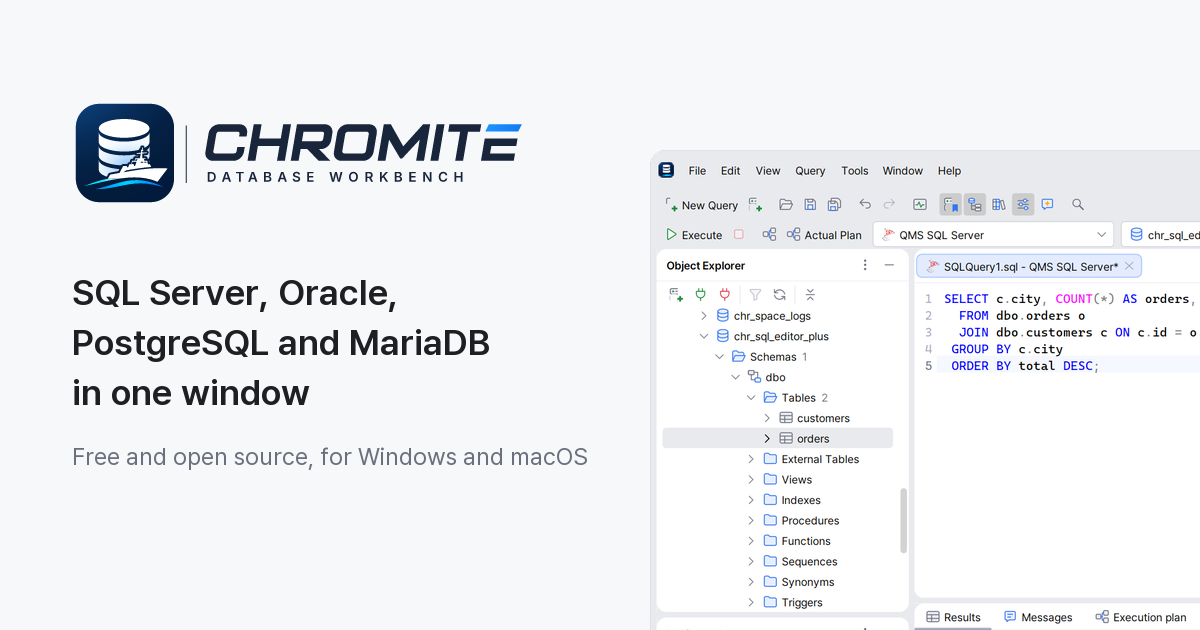
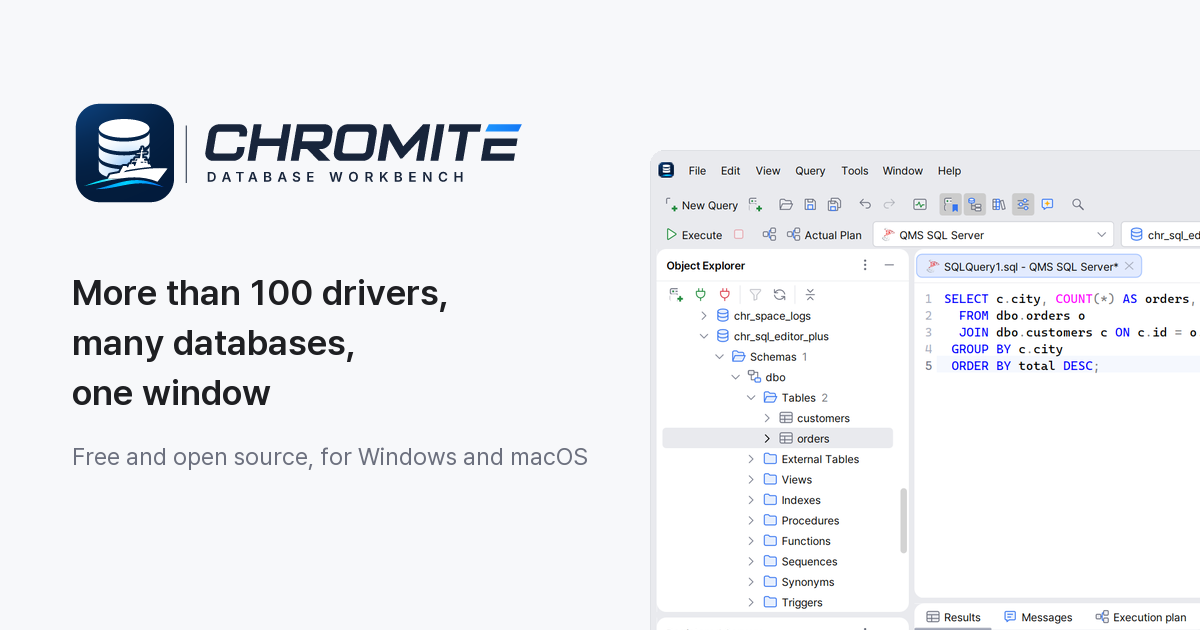
Stop implying the site's database list is a limit
The home page, meta descriptions, share images and the admin and
Chromite Agent scenes named four or five databases, which read as the
only databases Chromite works with. They are only the pre-installed
drivers. The site now says "more than 100 drivers" (144 labelled
driver definitions in 44 plugin.xml files), presents the pre-installed
drivers as a convenience, retitles the admin scene around the DBA
tools and states once which databases those tools cover, and splits
the Chromite Agent tools into generic (any connection) and diagnostic
(SQL Server, PostgreSQL, MariaDB/MySQL, Oracle) ones.

The share images are regenerated with gen_site_images.py; the icons
it also writes came out byte-identical.

Changed region(s): [[0.0617, 0.5127, 0.4317, 0.573], [0.0617, 0.6032, 0.2775, 0.6635], [0.0617, 0.4222, 0.37, 0.4825]]

diff --git a/site/ko/index.html b/site/ko/index.html
@@ -5,7 +5,7 @@
 <meta name="viewport" content="width=device-width, initial-scale=1">
 <meta name="color-scheme" content="light dark">
 <title>Chromite 다운로드</title>
-<meta name="description" content="Chromite - 데이터베이스 워크벤치. PostgreSQL, SQL Server, MariaDB, MySQL, Oracle을 한 창에서 다루는 데스크톱 앱. Windows와 macOS용 설치 파일을 받습니다.">
+<meta name="description" content="Chromite - 데이터베이스 워크벤치. 100가지가 넘는 드라이버로 여러 데이터베이스를 한 창에서 다루는 데스크톱 앱. Windows와 macOS용 설치 파일을 받습니다.">
 <link rel="icon" href="/favicon.ico" sizes="16x16 32x32 48x48">
 <link rel="icon" href="/assets/chromite-icon.svg" type="image/svg+xml">
 <link rel="icon" href="/assets/icons/icon-32.png" type="image/png" sizes="32x32">
@@ -15,20 +15,20 @@
 <meta property="og:type" content="website">
 <meta property="og:site_name" content="Chromite">
 <meta property="og:title" content="Chromite - 데이터베이스 워크벤치">
-<meta property="og:description" content="Chromite - 데이터베이스 워크벤치. PostgreSQL, SQL Server, MariaDB, MySQL, Oracle을 한 창에서 다루는 데스크톱 앱. Windows와 macOS용 설치 파일을 받습니다.">
+<meta property="og:description" content="Chromite - 데이터베이스 워크벤치. 100가지가 넘는 드라이버로 여러 데이터베이스를 한 창에서 다루는 데스크톱 앱. Windows와 macOS용 설치 파일을 받습니다.">
 <meta property="og:url" content="https://chromite.seizia.com/ko/">
 <meta property="og:image" content="https://chromite.seizia.com/assets/og/og-ko.png">
 <meta property="og:image:type" content="image/png">
 <meta property="og:image:width" content="1200">
 <meta property="og:image:height" content="630">
-<meta property="og:image:alt" content="Chromite 로고와 &#x27;SQL Server, Oracle, PostgreSQL, MariaDB를 한 창에서 다룹니다&#x27; 문구, 그 옆의 Chromite 창 화면">
+<meta property="og:image:alt" content="Chromite 로고와 &#x27;100가지가 넘는 드라이버로 여러 데이터베이스를 한 창에서 다룹니다&#x27; 문구, 그 옆의 Chromite 창 화면">
 <meta property="og:locale" content="ko_KR">
 <meta property="og:locale:alternate" content="en_US">
 <meta name="twitter:card" content="summary_large_image">
 <meta name="twitter:title" content="Chromite - 데이터베이스 워크벤치">
-<meta name="twitter:description" content="Chromite - 데이터베이스 워크벤치. PostgreSQL, SQL Server, MariaDB, MySQL, Oracle을 한 창에서 다루는 데스크톱 앱. Windows와 macOS용 설치 파일을 받습니다.">
+<meta name="twitter:description" content="Chromite - 데이터베이스 워크벤치. 100가지가 넘는 드라이버로 여러 데이터베이스를 한 창에서 다루는 데스크톱 앱. Windows와 macOS용 설치 파일을 받습니다.">
 <meta name="twitter:image" content="https://chromite.seizia.com/assets/og/og-ko.png">
-<meta name="twitter:image:alt" content="Chromite 로고와 &#x27;SQL Server, Oracle, PostgreSQL, MariaDB를 한 창에서 다룹니다&#x27; 문구, 그 옆의 Chromite 창 화면">
+<meta name="twitter:image:alt" content="Chromite 로고와 &#x27;100가지가 넘는 드라이버로 여러 데이터베이스를 한 창에서 다룹니다&#x27; 문구, 그 옆의 Chromite 창 화면">
 <link rel="stylesheet" href="/assets/site.css">
 <link rel="alternate" hreflang="en" href="/en/">
 <script src="/downloads/releases.js" defer></script>
@@ -61,7 +61,7 @@
       <div class="hero-shot">
         <img src="/assets/shots/ko-dark.webp" width="1899" height="1188" fetchpriority="high" decoding="async" data-t="y 62% -4% 0 .62; r 34 0 0 .62; s .84 1 0 .62" alt="Chromite 창. 왼쪽에 개체 탐색기와 등록된 서버, 가운데에 SQL 편집기와 결과 표, 오른쪽에 속성 창이 있다.">
       </div>
-      <p class="hero-statement" data-t="o 0 1 .6 .78; y 36px 0px .6 .78">PostgreSQL, SQL Server, MariaDB, MySQL, Oracle을 한 창에서 다룹니다.</p>
+      <p class="hero-statement" data-t="o 0 1 .6 .78; y 36px 0px .6 .78">100가지가 넘는 드라이버로 여러 데이터베이스를 한 창에서 다룹니다. 자주 쓰는 드라이버는 미리 들어 있습니다.</p>
     </div>
   </section>
 
@@ -105,7 +105,7 @@
     <div class="pin">
       <div class="scene-head">
         <h2 id="chromite-agent-title">Chromite Agent</h2>
-        <p class="scene-lead">물어보면 연결한 데이터베이스에서 도구를 골라 근거를 모으고 답합니다. 도구는 SQL Server, PostgreSQL, MariaDB, Oracle 기준이며 DB마다 쓸 수 있는 도구가 다릅니다.</p>
+        <p class="scene-lead">물어보면 도구로 근거를 모아 답합니다. 스키마·데이터·쿼리 도구는 어느 데이터베이스에서나, 진단 도구(실행 계획, 잠금, 상태 점검)는 SQL Server, PostgreSQL, MariaDB·MySQL, Oracle에서 씁니다.</p>
       </div>
       <figure class="scene-media" data-t="y 8vh 0vh 0 .3">
         <div class="frame"><img src="/assets/shots/tour/agent-ko-dark.webp" srcset="/assets/shots/tour/agent-ko-dark.webp 1.25x" width="355" height="749" loading="lazy" decoding="async" alt="Chromite Agent 창. 질문 '주문 42번을 고치는 UPDATE가 끝나지 않아요. 왜 기다리나요?' 아래에 읽기 도구 '차단 체인 가져오기'와 '열린 트랜잭션 목록'이 완료로 표시되고, 원인과 할 일을 적은 답이 있다."></div>
@@ -133,7 +133,7 @@
         <figcaption>인터넷이 되는 PC에서 묶음에 넣을 드라이버를 고르는 대화상자입니다. 내장 드라이버는 목록에 없습니다.</figcaption>
       </figure>
       <ul class="slot">
-        <li>SQL Server, Oracle, PostgreSQL, MariaDB, SQLite 드라이버가 설치 파일에 들어 있습니다. MySQL은 처음 연결할 때 받거나 오프라인 묶음으로 설치합니다.</li>
+        <li>드라이버는 100가지가 넘습니다. 그중 SQL Server, Oracle, PostgreSQL, MariaDB, SQLite 드라이버는 설치 파일에 미리 들어 있고, MySQL을 비롯한 나머지는 처음 연결할 때 받거나 오프라인 묶음으로 설치합니다.</li>
         <li>그 밖의 드라이버는 인터넷이 되는 PC의 드라이버 관리자에서 오프라인 묶음 파일 하나로 만들어 옮깁니다. 설치 전에 모든 파일의 SHA-256을 확인합니다.</li>
         <li>오프라인 모드를 켜면 드라이버 파일을 내려받으려 하지 않습니다. 자동 업데이트 확인은 옵션에서 끌 수 있습니다.</li>
       </ul>
@@ -161,8 +161,8 @@
   <section class="scene scene-wide" id="administration" aria-labelledby="administration-title">
     <div class="pin">
       <div class="scene-head">
-        <h2 id="administration-title">네 가지 데이터베이스를 한 도구에서 관리합니다.</h2>
-        <p class="scene-lead">SQL Server, Oracle, PostgreSQL, MariaDB를 같은 작업 모니터와 같은 메뉴로 다룹니다.</p>
+        <h2 id="administration-title">DBA 도구가 처음부터 들어 있습니다.</h2>
+        <p class="scene-lead">작업 모니터의 관리 도구는 지금 SQL Server, Oracle, PostgreSQL, MariaDB를 지원하고, Altibase는 세션과 잠금을 봅니다. 다른 데이터베이스도 연결해서 쿼리를 실행하고 개체를 탐색합니다.</p>
       </div>
       <figure class="scene-media">
         <div class="frame"><img src="/assets/shots/tour/admin-ko-dark.webp" srcset="/assets/shots/tour/admin-ko-dark.webp 1.25x" width="997" height="749" loading="lazy" decoding="async" data-t="s 1 1.7 .03 .17; x 0% -45% .03 .17; s 1.7 1 .22 .36; x -45% 0% .22 .36" alt="작업 모니터의 잠금 탭. 차단 체인에 세션 34547이 세션 34516을 막고 있고, 대기 리소스 orders (row 0,42), 대기 모드 ShareLock이 보인다. 아래에 두 세션의 잠금 목록이 있다."></div>
@@ -172,7 +172,7 @@
         <li>세션과 잠금: 맨 앞 블로커부터 차단 체인과 세션별 잠금을 보고, 세션을 끝냅니다.</li>
         <li>작업 스케줄러: SQL Server 에이전트, Oracle DBMS_SCHEDULER, PostgreSQL pg_cron, MariaDB 이벤트.</li>
         <li>공간 사용량, 서버 로그(오류·경고·느린 쿼리), 미리 보기와 확인을 거치는 유지 관리, 복제 상태.</li>
-        <li>Altibase도 연결합니다. 저장 방식별 테이블 색, 서버 출력, 세션과 잠금을 지원합니다.</li>
+        <li>Altibase는 저장 방식별 테이블 색, 서버 출력, 세션과 잠금을 지원합니다.</li>
       </ul>
     </div>
   </section>
@@ -228,7 +228,7 @@
     <div class="included">
       <h2 class="spec-title">들어 있는 것</h2>
       <dl class="spec">
-        <dt>데이터베이스</dt><dd>PostgreSQL, SQL Server, MariaDB, MySQL, Oracle. MySQL을 뺀 각 JDBC 드라이버가 함께 들어 있고, MySQL 드라이버는 처음 연결할 때 받거나 오프라인 묶음으로 설치합니다.</dd>
+        <dt>데이터베이스</dt><dd>100가지가 넘는 드라이버를 지원합니다. SQL Server, Oracle, PostgreSQL, MariaDB, SQLite 드라이버는 미리 설치되어 있고, 그 밖의 드라이버는 처음 연결할 때 받거나 오프라인 묶음으로 설치합니다. 드라이버 관리자에서 다른 JDBC 드라이버를 더할 수도 있습니다.</dd>
         <dt>쿼리</dt><dd>SQL 편집기, 필터와 바로 편집이 되는 결과 표, 실행 계획, 쿼리 라이브러리</dd>
         <dt>개체</dt><dd>개체 탐색기, 등록된 서버, 속성 창, 테이블 디자이너, ER 다이어그램</dd>
         <dt>데이터</dt><dd>가져오기와 내보내기, 백업과 복원</dd>

diff --git a/site/en/index.html b/site/en/index.html
@@ -5,7 +5,7 @@
 <meta name="viewport" content="width=device-width, initial-scale=1">
 <meta name="color-scheme" content="light dark">
 <title>Download Chromite</title>
-<meta name="description" content="Chromite - Database Workbench. A desktop app for PostgreSQL, SQL Server, MariaDB, MySQL and Oracle in one window. Download the installer for Windows or macOS.">
+<meta name="description" content="Chromite - Database Workbench. A desktop app for many databases in one window, with more than 100 drivers. Download the installer for Windows or macOS.">
 <link rel="icon" href="/favicon.ico" sizes="16x16 32x32 48x48">
 <link rel="icon" href="/assets/chromite-icon.svg" type="image/svg+xml">
 <link rel="icon" href="/assets/icons/icon-32.png" type="image/png" sizes="32x32">
@@ -15,20 +15,20 @@
 <meta property="og:type" content="website">
 <meta property="og:site_name" content="Chromite">
 <meta property="og:title" content="Chromite - Database Workbench">
-<meta property="og:description" content="Chromite - Database Workbench. A desktop app for PostgreSQL, SQL Server, MariaDB, MySQL and Oracle in one window. Download the installer for Windows or macOS.">
+<meta property="og:description" content="Chromite - Database Workbench. A desktop app for many databases in one window, with more than 100 drivers. Download the installer for Windows or macOS.">
 <meta property="og:url" content="https://chromite.seizia.com/en/">
 <meta property="og:image" content="https://chromite.seizia.com/assets/og/og-en.png">
 <meta property="og:image:type" content="image/png">
 <meta property="og:image:width" content="1200">
 <meta property="og:image:height" content="630">
-<meta property="og:image:alt" content="The Chromite logo, the line &#x27;SQL Server, Oracle, PostgreSQL and MariaDB in one window&#x27; and the Chromite window">
+<meta property="og:image:alt" content="The Chromite logo, the line &#x27;More than 100 drivers, many databases, one window&#x27; and the Chromite window">
 <meta property="og:locale" content="en_US">
 <meta property="og:locale:alternate" content="ko_KR">
 <meta name="twitter:card" content="summary_large_image">
 <meta name="twitter:title" content="Chromite - Database Workbench">
-<meta name="twitter:description" content="Chromite - Database Workbench. A desktop app for PostgreSQL, SQL Server, MariaDB, MySQL and Oracle in one window. Download the installer for Windows or macOS.">
+<meta name="twitter:description" content="Chromite - Database Workbench. A desktop app for many databases in one window, with more than 100 drivers. Download the installer for Windows or macOS.">
 <meta name="twitter:image" content="https://chromite.seizia.com/assets/og/og-en.png">
-<meta name="twitter:image:alt" content="The Chromite logo, the line &#x27;SQL Server, Oracle, PostgreSQL and MariaDB in one window&#x27; and the Chromite window">
+<meta name="twitter:image:alt" content="The Chromite logo, the line &#x27;More than 100 drivers, many databases, one window&#x27; and the Chromite window">
 <link rel="stylesheet" href="/assets/site.css">
 <link rel="alternate" hreflang="ko" href="/ko/">
 <script src="/downloads/releases.js" defer></script>
@@ -61,7 +61,7 @@
       <div class="hero-shot">
         <img src="/assets/shots/en-dark.webp" width="1899" height="1188" fetchpriority="high" decoding="async" data-t="y 62% -4% 0 .62; r 34 0 0 .62; s .84 1 0 .62" alt="The Chromite window: Object Explorer and Registered Servers on the left, the SQL editor and result grid in the middle, Properties on the right.">
       </div>
-      <p class="hero-statement" data-t="o 0 1 .6 .78; y 36px 0px .6 .78">PostgreSQL, SQL Server, MariaDB, MySQL and Oracle in one window.</p>
+      <p class="hero-statement" data-t="o 0 1 .6 .78; y 36px 0px .6 .78">Many databases in one window, through more than 100 drivers. The common ones come pre-installed.</p>
     </div>
   </section>
 
@@ -105,7 +105,7 @@
     <div class="pin">
       <div class="scene-head">
         <h2 id="chromite-agent-title">Chromite Agent</h2>
-        <p class="scene-lead">Ask it something and it picks tools to gather evidence from the connected database, then answers. The tools target SQL Server, PostgreSQL, MariaDB and Oracle; which tools work depends on the database.</p>
+        <p class="scene-lead">Ask, and it gathers evidence with its tools, then answers. Schema, data and query tools work with any database; diagnostics (plans, locks, health) cover SQL Server, PostgreSQL, MariaDB/MySQL and Oracle.</p>
       </div>
       <figure class="scene-media" data-t="y 8vh 0vh 0 .3">
         <div class="frame"><img src="/assets/shots/tour/agent-en-dark.webp" srcset="/assets/shots/tour/agent-en-dark.webp 1.25x" width="414" height="797" loading="lazy" decoding="async" alt="The Chromite Agent window. Under the question 'The UPDATE on order 42 never finishes. Why is it waiting?' the read tools Get blocking chain and List open transactions are marked Done, followed by an answer with the cause and what to do."></div>
@@ -133,7 +133,7 @@
         <figcaption>Choosing the drivers for a bundle on a PC with internet. Bundled drivers are not in the list.</figcaption>
       </figure>
       <ul class="slot">
-        <li>The SQL Server, Oracle, PostgreSQL, MariaDB and SQLite drivers are in the installer. MySQL is downloaded on first connect or installed from an offline bundle.</li>
+        <li>There are more than 100 drivers. The SQL Server, Oracle, PostgreSQL, MariaDB and SQLite drivers are pre-installed; the rest, MySQL included, are downloaded on first connect or installed from an offline bundle.</li>
         <li>For other drivers, make one offline bundle file in the Driver Manager on a PC with internet and install it on the closed-network PC. Every file's SHA-256 is checked before it is installed.</li>
         <li>With offline mode on, Chromite does not try to download driver files. The automatic update check can be turned off in Options.</li>
       </ul>
@@ -161,8 +161,8 @@
   <section class="scene scene-wide" id="administration" aria-labelledby="administration-title">
     <div class="pin">
       <div class="scene-head">
-        <h2 id="administration-title">Administer four databases from one tool.</h2>
-        <p class="scene-lead">SQL Server, Oracle, PostgreSQL and MariaDB in the same Activity Monitor, with the same menus.</p>
+        <h2 id="administration-title">DBA tools built in.</h2>
+        <p class="scene-lead">The admin tools in the Activity Monitor currently cover SQL Server, Oracle, PostgreSQL and MariaDB, with sessions and locks for Altibase. Other databases connect too, for queries and object browsing.</p>
       </div>
       <figure class="scene-media">
         <div class="frame"><img src="/assets/shots/tour/admin-en-dark.webp" srcset="/assets/shots/tour/admin-en-dark.webp 1.25x" width="1211" height="797" loading="lazy" decoding="async" data-t="s 1 1.7 .03 .17; x 0% -44% .03 .17; s 1.7 1 .22 .36; x -44% 0% .22 .36" alt="The Locks tab of the Activity Monitor. The blocking chain shows session 34839 blocking session 34863, with wait resource orders (row 1,104) and wait mode ShareLock. Below are the locks of both sessions."></div>
@@ -172,7 +172,7 @@
         <li>Sessions and locks: the blocking chain from the head blocker and the locks of each session; end a session.</li>
         <li>Job schedulers: SQL Server Agent, Oracle DBMS_SCHEDULER, PostgreSQL pg_cron and MariaDB events.</li>
         <li>Disk usage, server logs (errors, warnings, slow queries), maintenance with a preview and a confirmation, and replication status.</li>
-        <li>Altibase connects too, with tables coloured by storage type, server output, and sessions and locks.</li>
+        <li>Altibase has tables coloured by storage type, server output, and sessions and locks.</li>
       </ul>
     </div>
   </section>
@@ -228,7 +228,7 @@
     <div class="included">
       <h2 class="spec-title">What is included</h2>
       <dl class="spec">
-        <dt>Databases</dt><dd>PostgreSQL, SQL Server, MariaDB, MySQL and Oracle. Their JDBC drivers are included, except MySQL's, which is downloaded on first connect or installed from an offline bundle.</dd>
+        <dt>Databases</dt><dd>More than 100 drivers. The SQL Server, Oracle, PostgreSQL, MariaDB and SQLite drivers are pre-installed; others are downloaded on first connect or installed from an offline bundle. You can also add another JDBC driver in the Driver Manager.</dd>
         <dt>Queries</dt><dd>SQL editor, a result grid you can filter and edit in place, execution plans, Query Library</dd>
         <dt>Objects</dt><dd>Object Explorer, Registered Servers, Properties, table designer, ER diagrams</dd>
         <dt>Data</dt><dd>Import and export, backup and restore</dd>

diff --git a/site/ko/privacy.html b/site/ko/privacy.html
@@ -21,14 +21,14 @@
 <meta property="og:image:type" content="image/png">
 <meta property="og:image:width" content="1200">
 <meta property="og:image:height" content="630">
-<meta property="og:image:alt" content="Chromite 로고와 &#x27;SQL Server, Oracle, PostgreSQL, MariaDB를 한 창에서 다룹니다&#x27; 문구, 그 옆의 Chromite 창 화면">
+<meta property="og:image:alt" content="Chromite 로고와 &#x27;100가지가 넘는 드라이버로 여러 데이터베이스를 한 창에서 다룹니다&#x27; 문구, 그 옆의 Chromite 창 화면">
 <meta property="og:locale" content="ko_KR">
 <meta property="og:locale:alternate" content="en_US">
 <meta name="twitter:card" content="summary_large_image">
 <meta name="twitter:title" content="Chromite 개인정보">
 <meta name="twitter:description" content="Chromite 다운로드 사이트와 업데이트 확인이 보내고 남기는 정보">
 <meta name="twitter:image" content="https://chromite.seizia.com/assets/og/og-ko.png">
-<meta name="twitter:image:alt" content="Chromite 로고와 &#x27;SQL Server, Oracle, PostgreSQL, MariaDB를 한 창에서 다룹니다&#x27; 문구, 그 옆의 Chromite 창 화면">
+<meta name="twitter:image:alt" content="Chromite 로고와 &#x27;100가지가 넘는 드라이버로 여러 데이터베이스를 한 창에서 다룹니다&#x27; 문구, 그 옆의 Chromite 창 화면">
 <link rel="stylesheet" href="/assets/site.css">
 <link rel="alternate" hreflang="en" href="/en/privacy.html">
 </head>

diff --git a/site/ko/changelog.html b/site/ko/changelog.html
@@ -21,14 +21,14 @@
 <meta property="og:image:type" content="image/png">
 <meta property="og:image:width" content="1200">
 <meta property="og:image:height" content="630">
-<meta property="og:image:alt" content="Chromite 로고와 &#x27;SQL Server, Oracle, PostgreSQL, MariaDB를 한 창에서 다룹니다&#x27; 문구, 그 옆의 Chromite 창 화면">
+<meta property="og:image:alt" content="Chromite 로고와 &#x27;100가지가 넘는 드라이버로 여러 데이터베이스를 한 창에서 다룹니다&#x27; 문구, 그 옆의 Chromite 창 화면">
 <meta property="og:locale" content="ko_KR">
 <meta property="og:locale:alternate" content="en_US">
 <meta name="twitter:card" content="summary_large_image">
 <meta name="twitter:title" content="Chromite 변경 내역">
 <meta name="twitter:description" content="Chromite 버전별 변경 내역">
 <meta name="twitter:image" content="https://chromite.seizia.com/assets/og/og-ko.png">
-<meta name="twitter:image:alt" content="Chromite 로고와 &#x27;SQL Server, Oracle, PostgreSQL, MariaDB를 한 창에서 다룹니다&#x27; 문구, 그 옆의 Chromite 창 화면">
+<meta name="twitter:image:alt" content="Chromite 로고와 &#x27;100가지가 넘는 드라이버로 여러 데이터베이스를 한 창에서 다룹니다&#x27; 문구, 그 옆의 Chromite 창 화면">
 <link rel="stylesheet" href="/assets/site.css">
 <link rel="alternate" hreflang="en" href="/en/changelog.html">
 </head>

diff --git a/site/index.html b/site/index.html
@@ -21,14 +21,14 @@
 <meta property="og:image:type" content="image/png">
 <meta property="og:image:width" content="1200">
 <meta property="og:image:height" content="630">
-<meta property="og:image:alt" content="The Chromite logo, the line &#x27;SQL Server, Oracle, PostgreSQL and MariaDB in one window&#x27; and the Chromite window">
+<meta property="og:image:alt" content="The Chromite logo, the line &#x27;More than 100 drivers, many databases, one window&#x27; and the Chromite window">
 <meta property="og:locale" content="en_US">
 <meta property="og:locale:alternate" content="ko_KR">
 <meta name="twitter:card" content="summary_large_image">
 <meta name="twitter:title" content="Chromite - Database Workbench">
 <meta name="twitter:description" content="Chromite - Database Workbench">
 <meta name="twitter:image" content="https://chromite.seizia.com/assets/og/og-en.png">
-<meta name="twitter:image:alt" content="The Chromite logo, the line &#x27;SQL Server, Oracle, PostgreSQL and MariaDB in one window&#x27; and the Chromite window">
+<meta name="twitter:image:alt" content="The Chromite logo, the line &#x27;More than 100 drivers, many databases, one window&#x27; and the Chromite window">
 <link rel="stylesheet" href="/assets/site.css">
 <link rel="alternate" hreflang="ko" href="/ko/">
 <link rel="alternate" hreflang="en" href="/en/">

diff --git a/site/en/privacy.html b/site/en/privacy.html
@@ -21,14 +21,14 @@
 <meta property="og:image:type" content="image/png">
 <meta property="og:image:width" content="1200">
 <meta property="og:image:height" content="630">
-<meta property="og:image:alt" content="The Chromite logo, the line &#x27;SQL Server, Oracle, PostgreSQL and MariaDB in one window&#x27; and the Chromite window">
+<meta property="og:image:alt" content="The Chromite logo, the line &#x27;More than 100 drivers, many databases, one window&#x27; and the Chromite window">
 <meta property="og:locale" content="en_US">
 <meta property="og:locale:alternate" content="ko_KR">
 <meta name="twitter:card" content="summary_large_image">
 <meta name="twitter:title" content="Chromite privacy">
 <meta name="twitter:description" content="What the Chromite download site and update check send and keep">
 <meta name="twitter:image" content="https://chromite.seizia.com/assets/og/og-en.png">
-<meta name="twitter:image:alt" content="The Chromite logo, the line &#x27;SQL Server, Oracle, PostgreSQL and MariaDB in one window&#x27; and the Chromite window">
+<meta name="twitter:image:alt" content="The Chromite logo, the line &#x27;More than 100 drivers, many databases, one window&#x27; and the Chromite window">
 <link rel="stylesheet" href="/assets/site.css">
 <link rel="alternate" hreflang="ko" href="/ko/privacy.html">
 </head>

diff --git a/site/en/changelog.html b/site/en/changelog.html
@@ -21,14 +21,14 @@
 <meta property="og:image:type" content="image/png">
 <meta property="og:image:width" content="1200">
 <meta property="og:image:height" content="630">
-<meta property="og:image:alt" content="The Chromite logo, the line &#x27;SQL Server, Oracle, PostgreSQL and MariaDB in one window&#x27; and the Chromite window">
+<meta property="og:image:alt" content="The Chromite logo, the line &#x27;More than 100 drivers, many databases, one window&#x27; and the Chromite window">
 <meta property="og:locale" content="en_US">
 <meta property="og:locale:alternate" content="ko_KR">
 <meta name="twitter:card" content="summary_large_image">
 <meta name="twitter:title" content="Chromite changelog">
 <meta name="twitter:description" content="Changes in each version of Chromite">
 <meta name="twitter:image" content="https://chromite.seizia.com/assets/og/og-en.png">
-<meta name="twitter:image:alt" content="The Chromite logo, the line &#x27;SQL Server, Oracle, PostgreSQL and MariaDB in one window&#x27; and the Chromite window">
+<meta name="twitter:image:alt" content="The Chromite logo, the line &#x27;More than 100 drivers, many databases, one window&#x27; and the Chromite window">
 <link rel="stylesheet" href="/assets/site.css">
 <link rel="alternate" hreflang="ko" href="/ko/changelog.html">
 </head>

diff --git a/tools/branding/gen_site_images.py b/tools/branding/gen_site_images.py
@@ -9,7 +9,9 @@ gen_app_icons.py (the size-tier tile drawings, resvg rendering) instead of resiz
 favicon is the 16 px tier drawn on its own pixel grid, the same image the app uses for 16 px.
 
 The share image is the logo lockup from chromite_logo_pack/, one line of copy in Pretendard (the site's
-font) and a crop of the real app screenshot that the home page already shows (site/assets/shots). Colours
+font) and a crop of the real app screenshot that the home page already shows (site/assets/shots). The copy
+names the driver count, not a list of databases: a list of the pre-installed ones read as the only
+databases Chromite supports. Colours
 are the app's design tokens (docs/chromite/design-spec.md): canvas #F7F8FA, ink #1E1F22, secondary text
 #6C707E, border #DFE1E5. Flat colours only, no gradient washes.
 
@@ -30,6 +32,8 @@ other font.
 
 Change history:
 - 2026-11-07 Created (site favicons and Open Graph images).
+- 2026-11-08 Share image copy says "more than 100 drivers, many databases" instead of four database names
+  (user feedback: the list implied Chromite works only with those four).
 """
 import sys
 from pathlib import Path
@@ -49,9 +53,9 @@ INK_2 = "#6C707E"
 LINE = "#DFE1E5"
 
 OG_COPY = {
-    "ko": (["SQL Server, Oracle,", "PostgreSQL, MariaDB를", "한 창에서 다룹니다"],
+    "ko": (["100가지가 넘는 드라이버로", "여러 데이터베이스를", "한 창에서 다룹니다"],
            "Windows와 macOS용 무료 오픈 소스"),
-    "en": (["SQL Server, Oracle,", "PostgreSQL and MariaDB", "in one window"],
+    "en": (["More than 100 drivers,", "many databases,", "one window"],
            "Free and open source, for Windows and macOS"),
 }
 

diff --git a/docs/chromite/distribution.md b/docs/chromite/distribution.md
@@ -295,14 +295,14 @@ pwsh tools/release/rehearsal/rehearse.ps1 -Down
   폐쇄망(`#closed-networks`), 프로시저 디버거(`#debugger`), 서버 관리(`#administration`, Altibase 줄 포함), 비밀번호(`#passwords`), 오픈 소스(`#open-source`).
   순서와 문구 출처는 2026-11-07에 승인된 둘러보기이고, 문장을 줄이기만 하고 새 주장은 넣지 않았다. 앵커 id는 그대로다.
 - 다운로드 자리: 첫 화면의 "다운로드" 단추가 `#download`(다운로드 블록)로 바로 간다. 무대가 길어서(1440×900에서 약 24화면) 다운로드 블록은 무대 바로 뒤에 둔다.
-  다운로드 블록의 내용과 `site.js` 계약은 바꾸지 않았다. 예전 `h1`(지원 DB 문장)은 첫 화면 마지막 문장이 되고, 다운로드 블록 제목은 `h2` "Windows와 macOS용 Chromite 받기".
+  다운로드 블록의 내용과 `site.js` 계약은 바꾸지 않았다. 예전 `h1`(지원 DB 문장)은 첫 화면 마지막 문장이 되고(2026-11-08부터 드라이버 수 문장, 아래 "데이터베이스 지원 문구"), 다운로드 블록 제목은 `h2` "Windows와 macOS용 Chromite 받기".
 - 장면 구조: `section.scene` 안에 `div.pin`(제목 `.scene-head`, 그림 `.scene-media`, 짧은 문장 목록 `ul.slot`). 넓은 앱 화면은 위에서 아래로(`.scene-wide`),
   세로로 긴 화면·대화상자·저장소 카드는 글 옆에(`.scene-side`, 860px 아래에서는 위에서 아래로).
 - 움직임(`assets/stage.js`): 장면이 화면보다 길고(문장 수에 따라 190~370vh) `.pin`이 `position: sticky`로 한 화면 높이에 머문다. 장면 안의 스크롤 위치가 진행도 p(0~1)이고
   모든 움직임이 p의 함수라서 되돌려 스크롤하면 거꾸로 움직이고, 중간에서 새로 고쳐도 그 자리 모습이 바로 나온다.
   - 무엇이 움직이는지는 페이지의 `data-t`에 적는다. 예: `data-t="s 1 1.7 .03 .17; x 0% -56% .03 .17"`(p가 .03→.17일 때 배율 1→1.7, 가로 이동 0→-56%).
     속성은 `o`(불투명도), `x`·`y`(이동, 단위 포함), `s`(배율), `r`(`rotateX`, 도). 언어별 화면 사진의 위치가 달라서 확대 목표를 페이지마다 적는다.
-  - 첫 화면: 이름과 단추가 위로 사라지는 동안 앱 창이 기울어진 채(34°, 0.84배) 아래에서 올라와 평평하게 놓이고, 마지막에 지원 DB 문장이 나타난다.
+  - 첫 화면: 이름과 단추가 위로 사라지는 동안 앱 창이 기울어진 채(34°, 0.84배) 아래에서 올라와 평평하게 놓이고, 마지막에 지원 문장(드라이버 수)이 나타난다.
   - 기능 장면: 그림은 테두리(`.frame`, `overflow: hidden`) 안에서만 확대·이동한다(앱 창의 가장자리를 넘지 않음). 확대 위치는 원점 0,0 기준 이동으로 적고,
     이동 값을 -(배율-1)~0 사이에 두어 확대 중에도 틀 안이 비지 않는다.
     트랜잭션: 상태 줄의 열린 트랜잭션 칸과 커밋/롤백 메뉴로 확대했다가 돌아온다. 쿼리 라이브러리: Git 루트("팀 쿼리 main ↑1")에 확대된 채 시작해 전체로 물러난다.
@@ -328,6 +328,25 @@ pwsh tools/release/rehearsal/rehearse.ps1 -Down
   Messages API(가짜 키)로 찍었고, 도구 호출과 결과는 실제 DB 값이며 답의 글은 시험용 제공자가 돌려준 것이라고 그림 설명에 적었다(무대에서도 그대로).
   잠금 화면은 시험 PostgreSQL의 임시 DB에서 `psql` 세션이 행을 잡고 쿼리 창의 UPDATE가 기다리게 만들었고, 디버거 화면은 pldebugger를 넣은 임시 컨테이너로 찍었다. WebP 품질 82, 장당 16~82KB.
 
+### 데이터베이스 지원 문구 (2026-11-08)
+
+사용자 의견: "우리 도구는 4개 db만 다루지 않는다. 드라이버만 미리 세팅되어있을 뿐이다. 오히려 이 4개 db만 된다는 오해를 살 수 있다. 이건 특장점이 아니다".
+
+- 근거: `plugins/*/plugin.xml` 44개에 `<driver id=…>` 요소가 181개 있고(XML로 읽어 셈. 정규식으로는 주석 속 3개를 더해 184), 그중 `label`이 있는
+  드라이버 정의가 144개다. 나머지 37개는 옛 드라이버 ID를 데이터 소스 종류에 잇는 이름 없는 항목이다. 44개 플러그인은 모두 `db`·`drivers.public`·`swing` 기능에 들어 있다.
+  이름이 있는 드라이버를 제품 단위로 묶으면(같은 제품의 옛·클라우드·임베디드 판, CSV·DBF·JDBCX·Avatica·Arrow Flight 같은 파일·연합 드라이버 제외) 약 92개라
+  "100가지가 넘는 데이터베이스"는 확실히 참이라고 할 수 없다. 그래서 사이트는 "100가지가 넘는 드라이버"라고 쓴다(144개, 옛·사용 중단 표시 약 18개를 빼도 120개 이상).
+  드라이버 관리자에서 사용자가 JDBC 드라이버를 새로 더할 수 있다(`DriverManagerDialog.createDriver`).
+- 미리 설치된 드라이버(SQL Server, Oracle, PostgreSQL, MariaDB, SQLite, [drivers.md](drivers.md))는 편의로 적고 한계처럼 적지 않는다. 나머지는 처음 연결할 때 받거나 오프라인 묶음으로 설치한다.
+- 첫 화면 문장, 홈의 `description`·`og:description`·`twitter:description`, 공유 이미지와 모든 페이지의 그림 설명: 드라이버 수와 "여러 데이터베이스".
+- 서버 관리 장면 제목은 DB 수가 아니라 도구("DBA 도구가 처음부터 들어 있습니다" / "DBA tools built in")이고, 설명에서 깊은 관리 도구가 지금 다루는 DB(SQL Server, Oracle,
+  PostgreSQL, MariaDB, Altibase는 세션과 잠금)와 다른 DB도 연결해 쿼리·개체 탐색을 한다는 것을 한 번 적는다. 관리 코드에는 MySQL 경로도 있지만
+  ([swing-admin-tools.md](swing-admin-tools.md)) 시험은 MariaDB로만 했으므로 사이트에는 MariaDB만 적었다. 마지막 줄 "Altibase도 연결합니다"는 다른 DB는 안 된다는 뜻으로 읽혀 "Altibase는 …"로 바꿨다.
+- Chromite Agent 장면: 스키마·데이터·쿼리 도구는 모든 연결(도구 카탈로그의 G), 진단 도구(실행 계획, 잠금, 상태 점검)는 SQL Server, PostgreSQL, MariaDB·MySQL, Oracle
+  ([ai-agent.md](ai-agent.md) "도구 카탈로그"의 MS·PG·MY·OR). 이 장면은 375px에서 문장 목록이 원래도 화면 아래로 조금 넘친다(영어 약 24px). 설명을 길게 쓰면 더 넘쳐서
+  예전 설명과 같은 줄 수로 줄였다(헤드리스 Edge로 잼). 넘침 자체는 이 작업 범위 밖이라 그대로 두었다.
+- 변경 내역(0.1.0의 "JDBC 드라이버 내장", 0.1.1의 MySQL 드라이버 안내)은 그 버전에서 있었던 일이라 고치지 않았다.
+
 ### 파비콘과 공유 이미지 (2026-11-07)
 
 사용자 요청: "웹사이트는 파비콘과 og 이미지도 만들어서 반영한다".
@@ -335,6 +354,9 @@ pwsh tools/release/rehearsal/rehearse.ps1 -Down
 - 파일: `/favicon.ico`(16·32·48px), `/assets/icons/icon-32.png`, `icon-192.png`, `apple-touch-icon.png`(180px, 불투명 남색 바탕), 기존 `/assets/chromite-icon.svg`,
   공유 이미지 `/assets/og/og-ko.png`, `og-en.png`(1200×630). 생성기 `tools/branding/gen_site_images.py`가 `gen_app_icons.py`의 크기별 아이콘 그림(16px는 16px용
   그림)과 `chromite_logo_pack/chromite_wordmark_light.svg`, 사이트의 Pretendard 부분 집합, 홈의 실제 앱 화면(`assets/shots/<언어>-light.webp`) 일부로 만든다.
+  공유 이미지 문구(`OG_COPY`)는 "100가지가 넘는 드라이버로 / 여러 데이터베이스를 / 한 창에서 다룹니다", "More than 100 drivers, / many databases, / one window"이고,
+  모든 페이지의 `og:image:alt`·`twitter:image:alt`가 이 문구를 그대로 적는다. 문구를 바꾸면 생성기를 다시 실행하고 alt 7쪽을 같이 고친다.
+  새 한글은 Pretendard 부분 집합에 있는 글자인지 확인한다(없는 글자는 빈 네모로 그려진다).
   색은 디자인 토큰(바탕 `#F7F8FA`, 글 `#1E1F22`·`#6C707E`, 테두리 `#DFE1E5`)이고 그라데이션 바탕은 없다.
 - 모든 페이지(`/`, `/ko|en/`, 변경 내역, 개인정보)의 `<head>`: 아이콘 링크 5개, `<link rel="canonical">`(https://chromite.seizia.com/… ), `og:type`·`og:site_name`·`og:title`·
   `og:description`·`og:url`·`og:image`(절대 https 주소)·`og:image:type`·`og:image:width`·`og:image:height`·`og:image:alt`·`og:locale`(`ko_KR`/`en_US`)·
@@ -416,6 +438,12 @@ pwsh tools/release/rehearsal/rehearse.ps1 -Down
   JavaScript 끔에서 다운로드 상자는 `static`(두 카드와 파일 위치 안내). 페이지 높이: 움직일 때 약 22,800px(1440×900), 움직이지 않을 때 약 10,900px.
   장면마다 진행도 0·25·50·75·100%(한국어 9장면, 영어 0·50·100%), 375px 한 장씩, 밝은 테마 첫 화면·무대에서 다운로드로 넘어가는 곳, 무대 전체를 100px씩
   스크롤한 GIF(720×450, 7.5MB): `D:\Tools\_scratch\site-apple-scroll\proto\`. 움직임 줄이기·JavaScript 끔 전체 페이지: `D:\Tools\_scratch\site-apple-scroll\check\`.
+- 데이터베이스 지원 문구(2026-11-08): `-Down` 뒤 리허설을 처음부터 실행(`rehearse.ps1 -Tag v0.1.1 -DataGeneration 2`, 실제 0.1.1 파일) `ALL CHECKS OK`, 사이트 파일 42개.
+  헤드리스 Edge(CDP, 자기 프로필)로 한국어·영어 × 밝은·어두운 × 1440×900·375×812 홈: 가로 스크롤 없음, 깨진 이미지 없음, 콘솔·CSP 오류 없음(정보 수준 지연 로드 알림만),
+  Pretendard 400·600 로드, 첫 화면·Chromite Agent·폐쇄망·서버 관리·"데이터베이스" 줄과 설명 태그 3개가 새 문구. 변경 내역·개인정보 4쪽과 `/`의 `og:image:alt`·`twitter:image:alt`가 새 문구,
+  `/assets/og/og-ko.png`·`og-en.png` 200 `image/png`(120,391·137,400 B). 새 한글이 Pretendard 부분 집합에 모두 있음(없는 글자를 .notdef 그림과 비교해 찾는 방법, `漢`으로 검출 확인).
+  Chromite Agent 장면은 375px에서 문장 목록 끝이 화면 아래로 넘치는 양을 예전 문구와 비교해 같거나 적게 맞췄다(영어 24px, 예전과 같음).
+  화면 사진: `D:\Tools\_scratch\chromite-site-db-wording\shots\`.
 
 ## 확인하지 못한 것
 
@@ -469,3 +497,6 @@ DBeaver는 이 저장소에 설치 프로그램·배포 설정이 없다(별도 
 - 2026-11-08 홈을 스크롤 무대로 바꿈("사이트" > "스크롤 무대", 사용자 요청 "애플 제품 페이지 같은" 스크롤 연동 움직임): 어두운 무대에 첫 화면과 특장점 8장면,
   `assets/stage.js`(진행도에 묶인 `transform`·`opacity`, `data-t` 시간표), 다운로드 블록은 무대 뒤 `#download`(첫 화면의 다운로드 단추가 바로 감).
   기능 둘러보기(`assets/tour.js`, 스크롤 스냅, 목록, `.tour`·`.feature*`·`.shot` CSS)와 밝은 테마 기능 화면 14장을 지움. `site.js`·`lang.js`·피드 계약과 앵커는 그대로. 배포하지 않음.
+- 2026-11-08 사이트가 네다섯 DB만 다루는 것처럼 읽히던 문구를 고침("사이트" > "데이터베이스 지원 문구", 사용자 의견): 첫 화면 문장, 홈의 설명 태그 3개, 공유 이미지 2장(생성기 `OG_COPY`)과
+  모든 페이지의 그림 설명, 서버 관리 장면 제목·설명과 Altibase 줄, Chromite Agent 장면 설명, 폐쇄망 장면 첫 줄, 다운로드 블록 "데이터베이스" 줄. 기준은 드라이버 정의 144개("100가지가 넘는 드라이버").
+  아이콘은 다시 만들어도 같은 바이트라 바뀌지 않음. 배포하지 않음.
